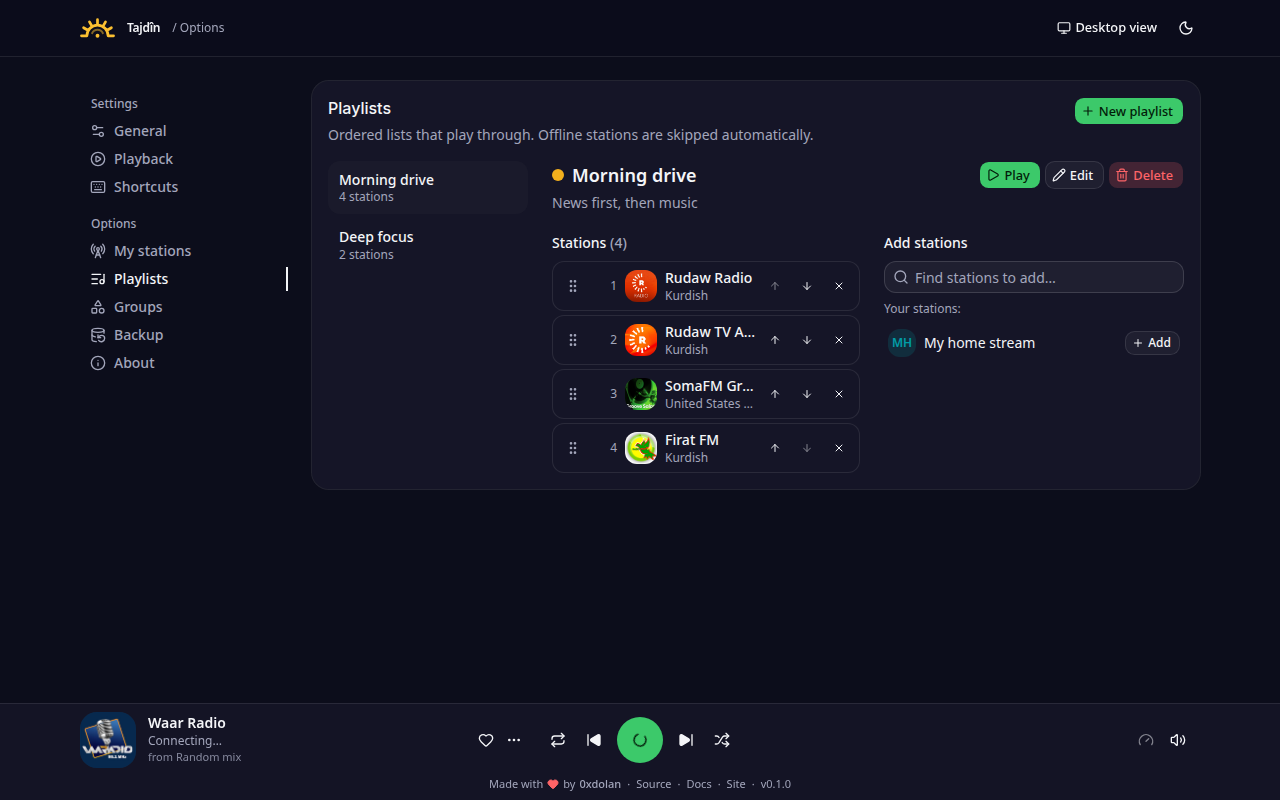
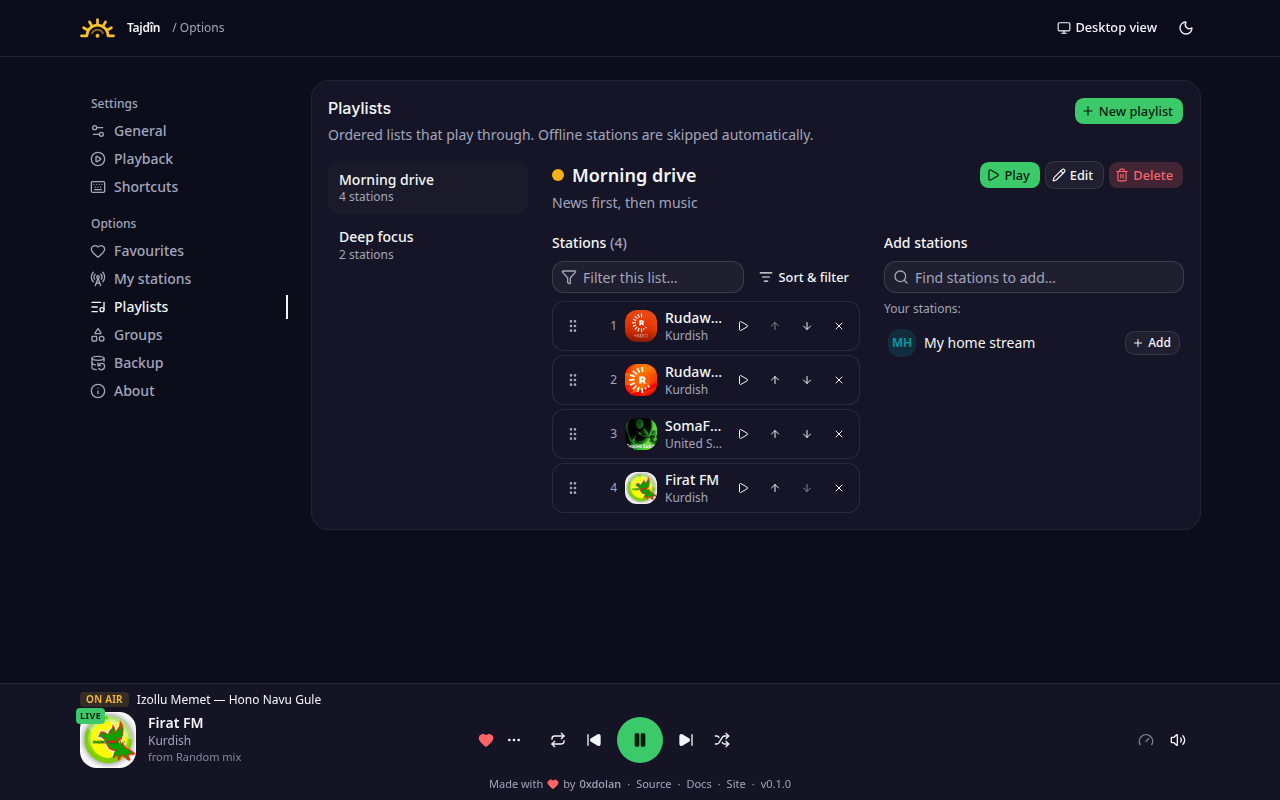
docs: name story, favourites and list tools in readme and guide; new screenshots

diff --git a/README.md b/README.md
@@ -21,7 +21,20 @@ Kurdish stations and 50,000+ more from around the world, in your browser toolbar
 
 </div>
 
-## Why Tajdîn?
+## Why the name Tajdîn?
+
+<img src="assets/images/mem-u-zin.webp" width="180" align="right" alt="Cover art of Mem û Zîn: the lovers Mem and Zîn in Kurdish dress beneath the trees" />
+
+The name comes from **[_Mem û Zîn_](https://en.wikipedia.org/wiki/Mem_and_Zin)**, the great Kurdish
+love epic written in 1692 by [Ehmedê Xanî](https://en.wikipedia.org/wiki/Ahmad_Khani). It tells of
+Mem and Zîn, two lovers kept apart by the jealous Beko, and it is often called the national epic of
+Kurdish literature.
+
+**Tajdîn** (Tacdîn) is Mem's best friend. He stands by Mem to the very end, and when Beko's treachery
+comes to light, it is Tajdîn who avenges him. A loyal companion who never leaves your side: that's
+what this radio wants to be. Hence the motto, _always by your side_.
+
+📖 Read the epic: [_Mem û Zîn_ (Kurdish edition)](https://www.amazon.com/Mem-%C3%BC-Zin-kurdiya-Dost/dp/9944382515)
 
 Radio keeps people close to home. For Kurdish listeners spread across many countries, it's often
 the easiest way to hear their own language, but Kurdish stations are hard to find in big global
@@ -30,6 +43,8 @@ in a player that keeps going while you browse. Its logo is the _Roj_, the sun fr
 tattoos, a sign of life and light, here broadcasting.
 
 No accounts. No tracking. No servers of our own. Everything you save stays in your browser.
+
+<br clear="right" />
 
 ## Features
 
@@ -43,8 +58,12 @@ No accounts. No tracking. No servers of our own. Everything you save stays in yo
   speed for local files, and an optional "On air" song line.
 - 🌞 **A living toolbar icon.** The Roj is grey when idle, amber when paused, and its wave pulses
   green while playing.
-- 📚 **Your library.** Favourites, ordered playlists that skip offline stations, hand-picked
-  groups, and **language groups** that gather every station in a language.
+- 📚 **Your library.** Favourites (one tap away in the popup, with their own tab in Options),
+  ordered playlists that skip offline stations, hand-picked groups, and **language groups** that
+  gather every station in a language.
+- 🔎 **Filter, search and sort everywhere.** Every list (random mix, search results, favourites,
+  playlists, groups, your stations) can be filtered by text, language and source and sorted by
+  name, country, language, quality or source.
 - 🔗 **Play anything.** Add any stream URL as your own station, or play a link or an audio file
   once.
 - 🖥 **Desktop view and website.** A full-window player that starts as soon as it opens, also at
@@ -73,11 +92,19 @@ No accounts. No tracking. No servers of our own. Everything you save stays in yo
     <td align="center"><sub>Light theme</sub></td>
     <td align="center"><sub>Backup: export and import with preview</sub></td>
   </tr>
+  <tr>
+    <td><img src="assets/screenshots/settings-favourites-dark.png" alt="Favourites in Options" /></td>
+    <td><img src="assets/screenshots/settings-about-light.png" alt="About: the story behind the name" /></td>
+  </tr>
+  <tr>
+    <td align="center"><sub>Favourites: filter, sort, drag to reorder</sub></td>
+    <td align="center"><sub>About: why the name, from <i>Mem û Zîn</i></sub></td>
+  </tr>
 </table>
 
 <p align="center">
   <img src="assets/screenshots/popup-mix-light.png" width="260" alt="Popup, light theme, first run" />
-  <img src="assets/screenshots/popup-search-dark.png" width="260" alt="Popup search" />
+  <img src="assets/screenshots/popup-filter-dark.png" width="260" alt="Popup with sort and filter" />
   <img src="assets/screenshots/web-mobile-dark.png" width="200" alt="Website on a phone" />
 </p>
 

diff --git a/docs/user-guide.md b/docs/user-guide.md
@@ -37,7 +37,9 @@ Click the Roj icon to open the popup.
 - **List menu** (for example "Random mix ▾"): switch between the random mix, Kurdish stations, any
   language, favourites, your own stations, playlists and groups. You can also create a playlist or
   group from here.
-- **🎲** gives you a new random mix. **🔍** searches. **+** plays a link or file, or adds a station.
+- **🎲** gives you a new random mix. **♥** jumps to your favourites (tap again to go back).
+  **Sort & filter** narrows and orders the list you're looking at. **🔍** searches every directory.
+  **+** plays a link or file, or adds a station.
 - **Player** at the bottom, and the footer with links and the version.
 
 Every time you open the popup you get a **new random mix**. To open on something else (Kurdish
@@ -98,8 +100,23 @@ first.
 
 ### Favourites
 
-Tap ♥ on any station. Favourites appear under **Favourites** in the list menu and work offline,
-because Tajdîn keeps a copy of each station's details.
+Tap ♥ on any station and it's added to your favourites automatically. Open them with the **♥**
+button in the popup, from the list menu, or in **Options → Favourites**, where you can also drag
+them into the order they play in, play them all, or remove any with undo. Favourites work
+offline, because Tajdîn keeps a copy of each station's details.
+
+### Filter and sort any list
+
+Every list (the random mix, search results, a language, favourites, playlists, groups and your
+own stations) has a **filter box** and a **Sort & filter** menu:
+
+- **Filter** by any word in the name, tags, country or language, by **language**, or by
+  **source** (Kurdish list, Radio Browser, SomaFM, laut.fm, your stations).
+- **Sort** by name (A–Z or Z–A), country, language, quality (highest bitrate first) or source.
+  "Default order" keeps the list as it is, which for playlists and favourites is your order.
+- Playing a station from a filtered list plays through just what you see.
+
+In Options, dragging to reorder pauses while a sort or filter is on; reset them to reorder again.
 
 ### Playlists
 

diff --git a/CHANGELOG.md b/CHANGELOG.md
@@ -3,6 +3,24 @@
 All notable changes to Tajdîn. The format follows [Keep a Changelog](https://keepachangelog.com/),
 and versions follow [Semantic Versioning](https://semver.org/).
 
+## Unreleased
+
+### Features
+
+- **Favourites, one tap away.** A ♥ button in the popup opens your favourites, and a new
+  **Options → Favourites** tab lists every station you've hearted, with play all, reordering and
+  remove with undo.
+- **Filter, search and sort on every list:** popup, desktop view, favourites, playlists, groups
+  and your stations. Filter by text, language or source; sort by name, country, language,
+  quality or source. The playlist and group lists in Options can be searched and sorted too.
+- **About:** the story behind the name, from the Kurdish epic _Mem û Zîn_, with links to
+  Wikipedia and the book. "Made with ♥" now shows the heart.
+
+### Fixes
+
+- The release sources zip is built with `git archive`, so building no longer prints a warning
+  per file.
+
 ## [0.1.0](https://github.com/0xdolan/tajdin/releases/tag/v0.1.0) · 2026-10-25
 
 Tajdîn has been rebuilt from scratch, with a new design, a new logo and a Firefox version.
